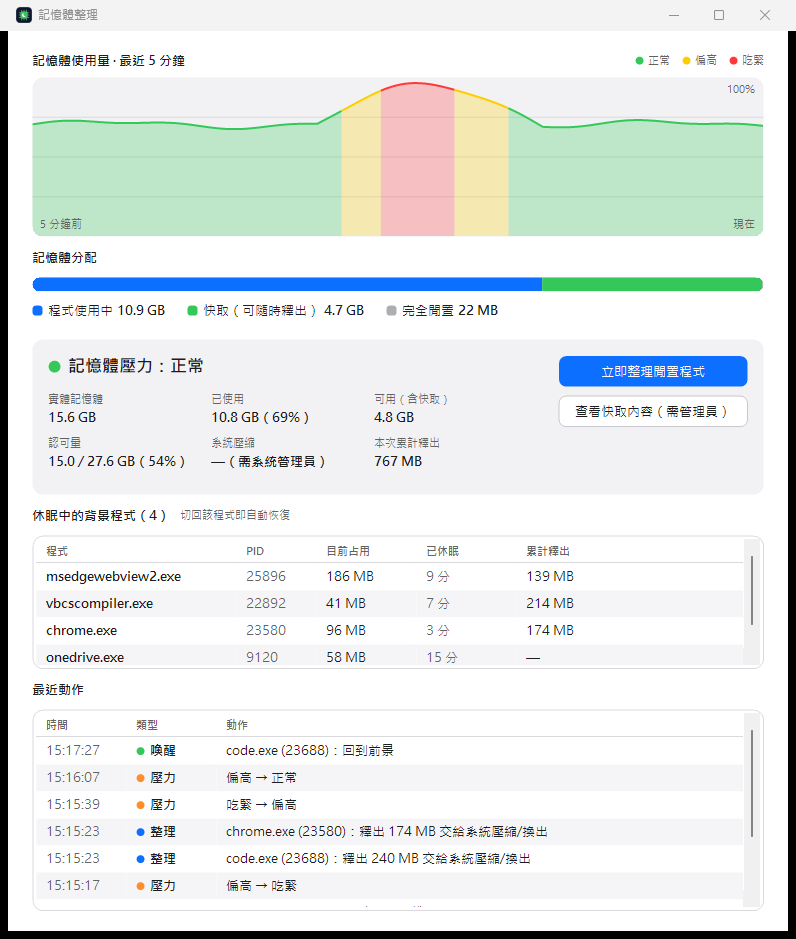
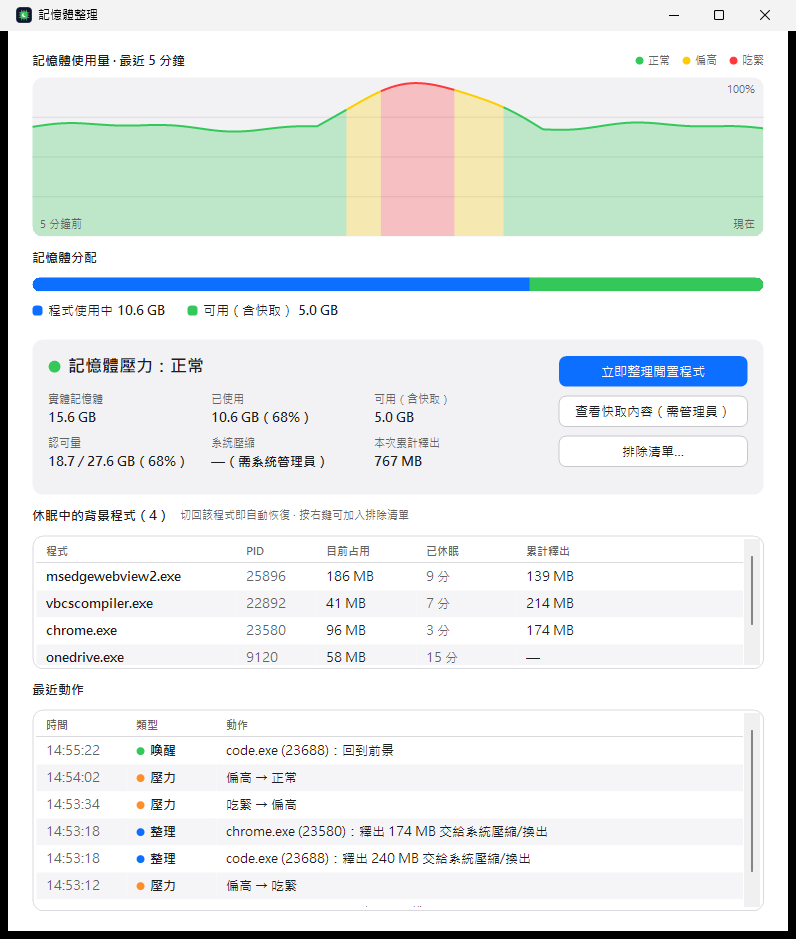
README: show the exclusions window, retake screenshots
Add the exclusions and add-program windows to the screenshots section and
describe them under 使用, replacing the advice to edit Exclusions by hand.
Retake the panel and tray-menu screenshots for the new 排除清單… button
and the 外觀 menu.

Claude-Session: https://claude.ai/code/session_01BtVzoAYThuAnE4nMrw9ZXS

diff --git a/README.md b/README.md
@@ -21,6 +21,17 @@
 
 預設跟隨 Windows 的淺色／深色模式，也可以在右鍵選單「外觀」固定為淺色或深色（左：淺色，右：深色）。
 
+**排除清單**：在背景也要保持全速的程式（通話、音樂、錄影）。可以搜尋、依「執行中／未執行」篩選、一鍵移除；今天常因背景工作被喚醒的程式會出現在「建議加入」。
+
+<p>
+  <img src="docs/screenshots/exclusions-light.png" alt="排除清單視窗（淺色）" width="49%">
+  <img src="docs/screenshots/exclusions-dark.png" alt="排除清單視窗（深色）" width="49%">
+</p>
+
+**新增程式**：從正在執行的程式挑選（休眠中的會標出來）、輸入 `.exe` 名稱，或選擇 exe 檔。
+
+<img src="docs/screenshots/add-app.png" alt="新增程式視窗" width="60%">
+
 **快取內容**：哪些檔案正在快取裡，由大到小（需系統管理員）。
 
 <img src="docs/screenshots/cache.png" alt="快取內容視窗" width="75%">
@@ -55,12 +66,11 @@
 - 第一次執行就會自動設定「開機時自動啟動」（使用者層級的啟動項目，不需要系統管理員）；不要的話在右鍵選單取消勾選即可，之後不會再自動打開。安裝後一律從 `C:\Program Files\MemTidy` 啟動；執行其他位置的 MemTidy（例如 `dist\`）不會改掉它。未安裝時，搬移 exe 位置後執行一次，啟動路徑會自動更新。
 - 從舊版（以系統管理員常駐）更新時，會自動移除舊的「工作排程器」工作 `MemTidy`；若 Windows 要求系統管理員權限，會先說明原因再詢問一次。
 - 介面依 `MemTidy UI` 設計稿（macOS 26 風格）繪製，預設跟隨 Windows 的淺色／深色應用程式模式（含深色標題列）；右鍵選單「外觀」可改為固定淺色或深色，立即生效並記在設定檔（`"Theme": "system" | "light" | "dark"`）。
-- 系統匣圖示顏色＝目前壓力（灰色＝已暫停）；左鍵開面板，右鍵選單可「立即整理」、暫停、切換開機啟動。
-- **排除清單**（不會被休眠或整理的程式）：從面板的「排除清單…」按鈕或右鍵選單開啟。可以從正在執行的程式挑選、輸入 `.exe` 名稱或選擇 exe 檔，變更立即生效；在面板的「休眠中的背景程式」上按右鍵也能直接加入。今天常因背景工作被喚醒的程式會出現在「建議加入」。系統、安全軟體、輸入法等程式另有內建保護，不在清單上也不會被休眠。
+- 系統匣圖示顏色＝目前壓力（灰色＝已暫停）；左鍵開面板，右鍵選單可「立即整理」、開啟排除清單、暫停、切換開機啟動、選擇外觀。
+- **排除清單**（不會被休眠或整理的程式）：背景要持續運作的程式（通話、音樂、錄影）請加入這裡；預設已包含 Teams、Zoom、Discord、LINE、Spotify 等。從面板的「排除清單…」按鈕或右鍵選單開啟，變更立即生效，剛加入的程式若正在休眠會馬上喚醒；在面板的「休眠中的背景程式」上按右鍵也能直接加入。「建議加入」按「略過」後就不會再建議同一個程式；「還原預設清單」會先確認。系統、安全軟體、輸入法等程式另有內建保護，不在清單上也不會被休眠，也不會出現在「新增程式」裡。
 - 設定檔：`%LOCALAPPDATA%\MemTidy\settings.json`（閒置分鐘、CPU 門檻、排除清單等），除排除清單外改完需重開程式生效（排除清單在其視窗重新取得焦點時就會重新讀入）。可以加註解；不合理的值會改用預設並記在紀錄檔，格式錯誤時本次改用預設、不會覆蓋原檔。
 - 要從指令或腳本關掉常駐中的 MemTidy（會先還原所有程式）：`MemTidy.exe --exit`；`build.ps1` 也會自動這樣做。
 - 紀錄檔：`%LOCALAPPDATA%\MemTidy\memtidy.log`。
-- 背景要持續運作的程式（通話、音樂、錄影）請加入 `Exclusions`；預設已包含 Teams、Zoom、Discord、LINE、Spotify 等。
 
 結束程式、暫停、登出時會把所有改過的設定還原。若 MemTidy 被強制終止，被調整的程式會維持「低於標準」優先權直到它重新啟動。
 
